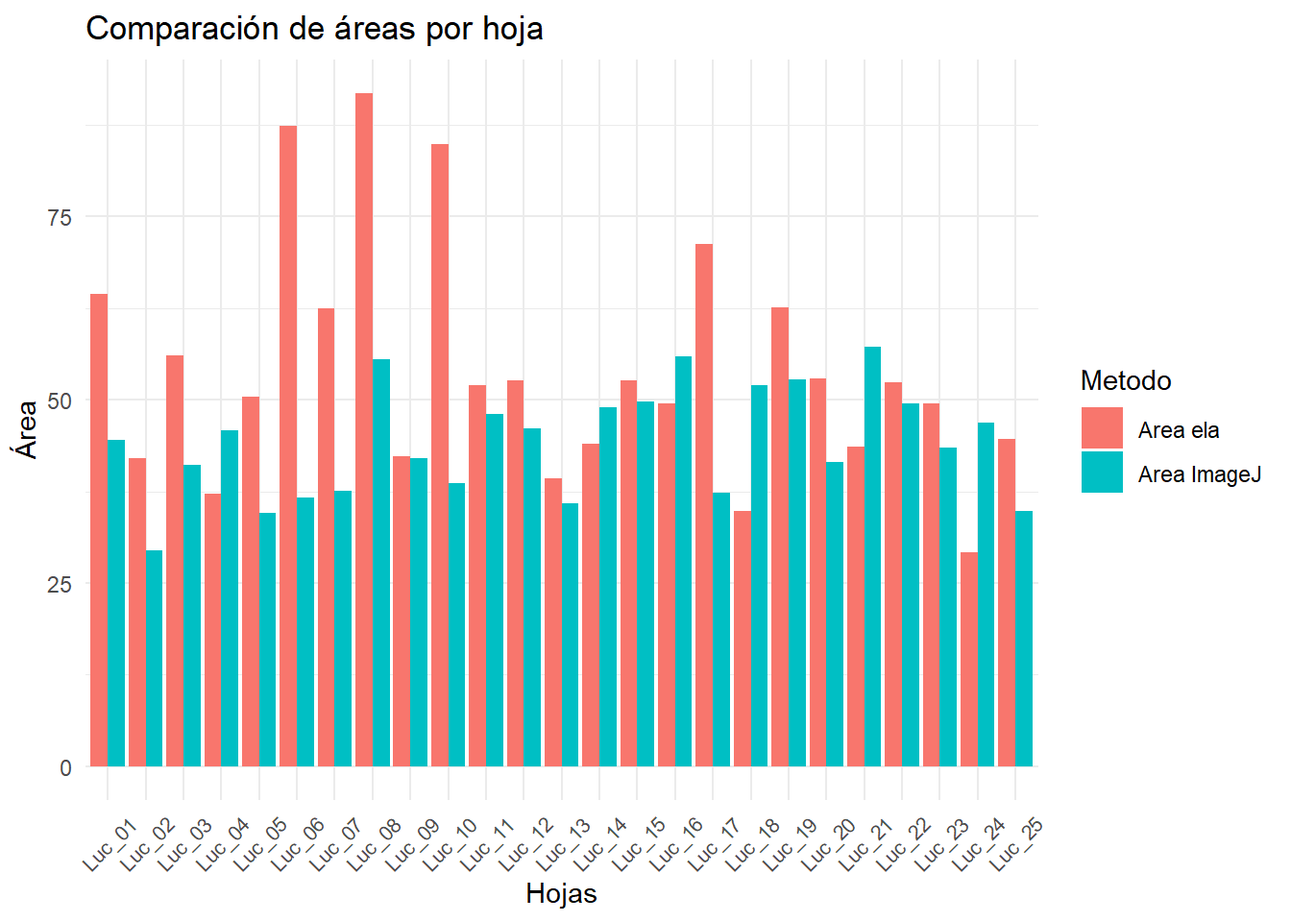
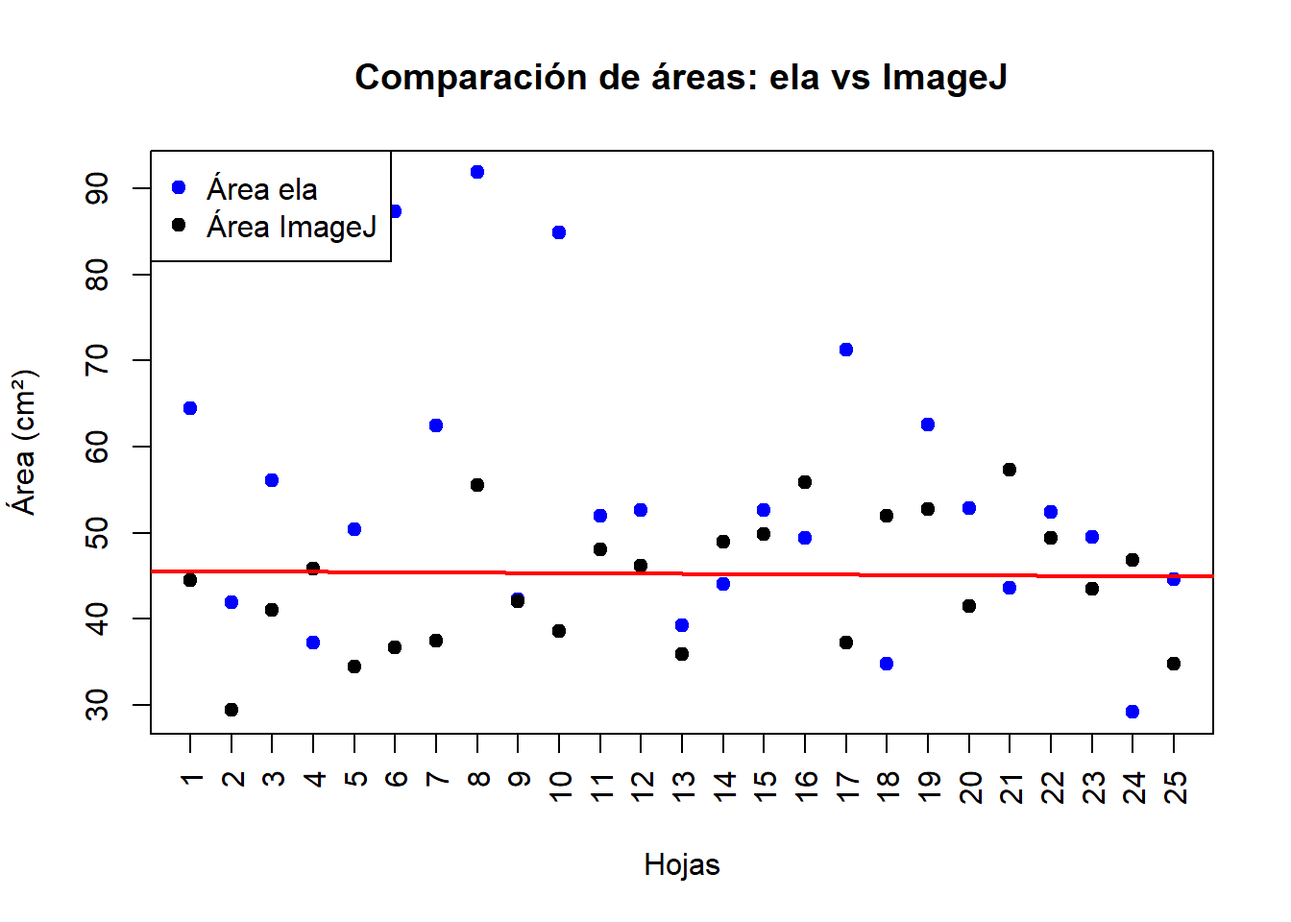
M

diff --git a/index.html b/index.html
@@ -143,18 +143,45 @@ Adjuntando el paquete: 'googlesheets4'</code></pre>
 
     request_generate, request_make</code></pre>
 </div>
+<div class="sourceCode cell-code" id="cb6"><pre class="sourceCode r code-with-copy"><code class="sourceCode r"><span id="cb6-1"><a href="#cb6-1" aria-hidden="true" tabindex="-1"></a><span class="fu">library</span>(dplyr)</span></code><button title="Copy to Clipboard" class="code-copy-button"><i class="bi"></i></button></pre></div>
+<div class="cell-output cell-output-stderr">
+<pre><code>
+Adjuntando el paquete: 'dplyr'</code></pre>
 </div>
-</section>
-<section id="fenotipado-en-imagej.exe" class="level1">
-<h1>Fenotipado en ImageJ.exe</h1>
+<div class="cell-output cell-output-stderr">
+<pre><code>The following objects are masked from 'package:stats':
+
+    filter, lag</code></pre>
+</div>
+<div class="cell-output cell-output-stderr">
+<pre><code>The following objects are masked from 'package:base':
+
+    intersect, setdiff, setequal, union</code></pre>
+</div>
+<div class="sourceCode cell-code" id="cb10"><pre class="sourceCode r code-with-copy"><code class="sourceCode r"><span id="cb10-1"><a href="#cb10-1" aria-hidden="true" tabindex="-1"></a><span class="fu">library</span>(lme4)</span></code><button title="Copy to Clipboard" class="code-copy-button"><i class="bi"></i></button></pre></div>
+<div class="cell-output cell-output-stderr">
+<pre><code>Cargando paquete requerido: Matrix</code></pre>
+</div>
+<div class="cell-output cell-output-stderr">
+<pre><code>
+Adjuntando el paquete: 'Matrix'</code></pre>
+</div>
+<div class="cell-output cell-output-stderr">
+<pre><code>The following objects are masked from 'package:tidyr':
+
+    expand, pack, unpack</code></pre>
+</div>
+</div>
+<section id="fenotipado-en-imagej.exe" class="level2">
+<h2 class="anchored" data-anchor-id="fenotipado-en-imagej.exe">Fenotipado en ImageJ.exe</h2>
 <div class="cell">
-<div class="sourceCode cell-code" id="cb6"><pre class="sourceCode r code-with-copy"><code class="sourceCode r"><span id="cb6-1"><a href="#cb6-1" aria-hidden="true" tabindex="-1"></a>url <span class="ot">&lt;-</span> <span class="st">"https://docs.google.com/spreadsheets/d/1XddbJV_9Ru2_ns5UJX_xJ7c7wQ9g_u5Jge-AJNpdVdQ/edit?pli=1&amp;gid=0#gid=0"</span></span>
-<span id="cb6-2"><a href="#cb6-2" aria-hidden="true" tabindex="-1"></a></span>
-<span id="cb6-3"><a href="#cb6-3" aria-hidden="true" tabindex="-1"></a>gs <span class="ot">&lt;-</span> url <span class="sc">%&gt;%</span></span>
-<span id="cb6-4"><a href="#cb6-4" aria-hidden="true" tabindex="-1"></a>  <span class="fu">as_sheets_id</span>()</span>
-<span id="cb6-5"><a href="#cb6-5" aria-hidden="true" tabindex="-1"></a></span>
-<span id="cb6-6"><a href="#cb6-6" aria-hidden="true" tabindex="-1"></a>ImageJ <span class="ot">&lt;-</span> gs <span class="sc">%&gt;%</span></span>
-<span id="cb6-7"><a href="#cb6-7" aria-hidden="true" tabindex="-1"></a>  <span class="fu">range_read</span>(<span class="at">sheet =</span> <span class="st">"ImageJ"</span>)</span></code><button title="Copy to Clipboard" class="code-copy-button"><i class="bi"></i></button></pre></div>
+<div class="sourceCode cell-code" id="cb14"><pre class="sourceCode r code-with-copy"><code class="sourceCode r"><span id="cb14-1"><a href="#cb14-1" aria-hidden="true" tabindex="-1"></a>url <span class="ot">&lt;-</span> <span class="st">"https://docs.google.com/spreadsheets/d/1XddbJV_9Ru2_ns5UJX_xJ7c7wQ9g_u5Jge-AJNpdVdQ/edit?pli=1&amp;gid=0#gid=0"</span></span>
+<span id="cb14-2"><a href="#cb14-2" aria-hidden="true" tabindex="-1"></a></span>
+<span id="cb14-3"><a href="#cb14-3" aria-hidden="true" tabindex="-1"></a>gs <span class="ot">&lt;-</span> url <span class="sc">%&gt;%</span></span>
+<span id="cb14-4"><a href="#cb14-4" aria-hidden="true" tabindex="-1"></a>  <span class="fu">as_sheets_id</span>()</span>
+<span id="cb14-5"><a href="#cb14-5" aria-hidden="true" tabindex="-1"></a></span>
+<span id="cb14-6"><a href="#cb14-6" aria-hidden="true" tabindex="-1"></a>ImageJ <span class="ot">&lt;-</span> gs <span class="sc">%&gt;%</span></span>
+<span id="cb14-7"><a href="#cb14-7" aria-hidden="true" tabindex="-1"></a>  <span class="fu">range_read</span>(<span class="at">sheet =</span> <span class="st">"ImageJ"</span>)</span></code><button title="Copy to Clipboard" class="code-copy-button"><i class="bi"></i></button></pre></div>
 <div class="cell-output cell-output-stderr">
 <pre><code>ℹ Suitable tokens found in the cache, associated with these emails:</code></pre>
 </div>
@@ -185,77 +212,116 @@ Adjuntando el paquete: 'googlesheets4'</code></pre>
   '7574265122@untrm.edu.pe'.</code></pre>
 </div>
 <div class="cell-output cell-output-stderr">
+<pre><code>Auto-refreshing stale OAuth token.</code></pre>
+</div>
+<div class="cell-output cell-output-stderr">
 <pre><code>✔ Reading from "medicion_manual_G5".</code></pre>
 </div>
 <div class="cell-output cell-output-stderr">
 <pre><code>✔ Range ''ImageJ''.</code></pre>
 </div>
-<div class="sourceCode cell-code" id="cb18"><pre class="sourceCode r code-with-copy"><code class="sourceCode r"><span id="cb18-1"><a href="#cb18-1" aria-hidden="true" tabindex="-1"></a><span class="fu">View</span>(ImageJ)</span></code><button title="Copy to Clipboard" class="code-copy-button"><i class="bi"></i></button></pre></div>
+<div class="sourceCode cell-code" id="cb27"><pre class="sourceCode r code-with-copy"><code class="sourceCode r"><span id="cb27-1"><a href="#cb27-1" aria-hidden="true" tabindex="-1"></a><span class="fu">View</span>(ImageJ)</span></code><button title="Copy to Clipboard" class="code-copy-button"><i class="bi"></i></button></pre></div>
 </div>
-<p>#Fenotipado en Ela.exe</p>
+</section>
+<section id="fenotipado-en-ela.exe" class="level2">
+<h2 class="anchored" data-anchor-id="fenotipado-en-ela.exe">Fenotipado en Ela.exe</h2>
 <div class="cell">
-<div class="sourceCode cell-code" id="cb19"><pre class="sourceCode r code-with-copy"><code class="sourceCode r"><span id="cb19-1"><a href="#cb19-1" aria-hidden="true" tabindex="-1"></a>url <span class="ot">&lt;-</span> <span class="st">"https://docs.google.com/spreadsheets/d/1XddbJV_9Ru2_ns5UJX_xJ7c7wQ9g_u5Jge-AJNpdVdQ/edit?pli=1&amp;gid=0#gid=0"</span></span>
-<span id="cb19-2"><a href="#cb19-2" aria-hidden="true" tabindex="-1"></a></span>
-<span id="cb19-3"><a href="#cb19-3" aria-hidden="true" tabindex="-1"></a>gs <span class="ot">&lt;-</span> url <span class="sc">%&gt;%</span></span>
-<span id="cb19-4"><a href="#cb19-4" aria-hidden="true" tabindex="-1"></a>  <span class="fu">as_sheets_id</span>()</span>
-<span id="cb19-5"><a href="#cb19-5" aria-hidden="true" tabindex="-1"></a></span>
-<span id="cb19-6"><a href="#cb19-6" aria-hidden="true" tabindex="-1"></a>ela <span class="ot">&lt;-</span> gs <span class="sc">%&gt;%</span></span>
-<span id="cb19-7"><a href="#cb19-7" aria-hidden="true" tabindex="-1"></a>  <span class="fu">range_read</span>(<span class="at">sheet =</span> <span class="st">"ela"</span>)</span></code><button title="Copy to Clipboard" class="code-copy-button"><i class="bi"></i></button></pre></div>
+<div class="sourceCode cell-code" id="cb28"><pre class="sourceCode r code-with-copy"><code class="sourceCode r"><span id="cb28-1"><a href="#cb28-1" aria-hidden="true" tabindex="-1"></a>url <span class="ot">&lt;-</span> <span class="st">"https://docs.google.com/spreadsheets/d/1XddbJV_9Ru2_ns5UJX_xJ7c7wQ9g_u5Jge-AJNpdVdQ/edit?pli=1&amp;gid=0#gid=0"</span></span>
+<span id="cb28-2"><a href="#cb28-2" aria-hidden="true" tabindex="-1"></a></span>
+<span id="cb28-3"><a href="#cb28-3" aria-hidden="true" tabindex="-1"></a>gs <span class="ot">&lt;-</span> url <span class="sc">%&gt;%</span></span>
+<span id="cb28-4"><a href="#cb28-4" aria-hidden="true" tabindex="-1"></a>  <span class="fu">as_sheets_id</span>()</span>
+<span id="cb28-5"><a href="#cb28-5" aria-hidden="true" tabindex="-1"></a></span>
+<span id="cb28-6"><a href="#cb28-6" aria-hidden="true" tabindex="-1"></a>ela <span class="ot">&lt;-</span> gs <span class="sc">%&gt;%</span></span>
+<span id="cb28-7"><a href="#cb28-7" aria-hidden="true" tabindex="-1"></a>  <span class="fu">range_read</span>(<span class="at">sheet =</span> <span class="st">"ela"</span>)</span></code><button title="Copy to Clipboard" class="code-copy-button"><i class="bi"></i></button></pre></div>
 <div class="cell-output cell-output-stderr">
 <pre><code>✔ Reading from "medicion_manual_G5".</code></pre>
 </div>
 <div class="cell-output cell-output-stderr">
 <pre><code>✔ Range ''ela''.</code></pre>
 </div>
-<div class="sourceCode cell-code" id="cb22"><pre class="sourceCode r code-with-copy"><code class="sourceCode r"><span id="cb22-1"><a href="#cb22-1" aria-hidden="true" tabindex="-1"></a><span class="fu">View</span>(ela)</span></code><button title="Copy to Clipboard" class="code-copy-button"><i class="bi"></i></button></pre></div>
+<div class="sourceCode cell-code" id="cb31"><pre class="sourceCode r code-with-copy"><code class="sourceCode r"><span id="cb31-1"><a href="#cb31-1" aria-hidden="true" tabindex="-1"></a><span class="fu">View</span>(ela)</span></code><button title="Copy to Clipboard" class="code-copy-button"><i class="bi"></i></button></pre></div>
 </div>
-<p>#Comparación de áreas obtenidad en las dos aplicaciones</p>
+<section id="comparación-de-áreas-obtenidad-en-las-dos-aplicaciones" class="level3">
+<h3 class="anchored" data-anchor-id="comparación-de-áreas-obtenidad-en-las-dos-aplicaciones">Comparación de áreas obtenidad en las dos aplicaciones</h3>
 <div class="cell">
-<div class="sourceCode cell-code" id="cb23"><pre class="sourceCode r code-with-copy"><code class="sourceCode r"><span id="cb23-1"><a href="#cb23-1" aria-hidden="true" tabindex="-1"></a>url <span class="ot">&lt;-</span> <span class="st">"https://docs.google.com/spreadsheets/d/1XddbJV_9Ru2_ns5UJX_xJ7c7wQ9g_u5Jge-AJNpdVdQ/edit?pli=1&amp;gid=0#gid=0"</span></span>
-<span id="cb23-2"><a href="#cb23-2" aria-hidden="true" tabindex="-1"></a></span>
-<span id="cb23-3"><a href="#cb23-3" aria-hidden="true" tabindex="-1"></a>gs <span class="ot">&lt;-</span> url <span class="sc">%&gt;%</span></span>
-<span id="cb23-4"><a href="#cb23-4" aria-hidden="true" tabindex="-1"></a>  <span class="fu">as_sheets_id</span>()</span>
-<span id="cb23-5"><a href="#cb23-5" aria-hidden="true" tabindex="-1"></a></span>
-<span id="cb23-6"><a href="#cb23-6" aria-hidden="true" tabindex="-1"></a>todo <span class="ot">&lt;-</span> gs <span class="sc">%&gt;%</span></span>
-<span id="cb23-7"><a href="#cb23-7" aria-hidden="true" tabindex="-1"></a>  <span class="fu">range_read</span>(<span class="at">sheet =</span> <span class="st">"todo"</span>)</span></code><button title="Copy to Clipboard" class="code-copy-button"><i class="bi"></i></button></pre></div>
+<div class="sourceCode cell-code" id="cb32"><pre class="sourceCode r code-with-copy"><code class="sourceCode r"><span id="cb32-1"><a href="#cb32-1" aria-hidden="true" tabindex="-1"></a>url <span class="ot">&lt;-</span> <span class="st">"https://docs.google.com/spreadsheets/d/1XddbJV_9Ru2_ns5UJX_xJ7c7wQ9g_u5Jge-AJNpdVdQ/edit?pli=1&amp;gid=0#gid=0"</span></span>
+<span id="cb32-2"><a href="#cb32-2" aria-hidden="true" tabindex="-1"></a></span>
+<span id="cb32-3"><a href="#cb32-3" aria-hidden="true" tabindex="-1"></a>gs <span class="ot">&lt;-</span> url <span class="sc">%&gt;%</span></span>
+<span id="cb32-4"><a href="#cb32-4" aria-hidden="true" tabindex="-1"></a>  <span class="fu">as_sheets_id</span>()</span>
+<span id="cb32-5"><a href="#cb32-5" aria-hidden="true" tabindex="-1"></a></span>
+<span id="cb32-6"><a href="#cb32-6" aria-hidden="true" tabindex="-1"></a>todo <span class="ot">&lt;-</span> gs <span class="sc">%&gt;%</span></span>
+<span id="cb32-7"><a href="#cb32-7" aria-hidden="true" tabindex="-1"></a>  <span class="fu">range_read</span>(<span class="at">sheet =</span> <span class="st">"todo"</span>)</span></code><button title="Copy to Clipboard" class="code-copy-button"><i class="bi"></i></button></pre></div>
 <div class="cell-output cell-output-stderr">
 <pre><code>✔ Reading from "medicion_manual_G5".</code></pre>
 </div>
 <div class="cell-output cell-output-stderr">
 <pre><code>✔ Range ''todo''.</code></pre>
 </div>
-<div class="sourceCode cell-code" id="cb26"><pre class="sourceCode r code-with-copy"><code class="sourceCode r"><span id="cb26-1"><a href="#cb26-1" aria-hidden="true" tabindex="-1"></a><span class="fu">View</span>(todo)</span></code><button title="Copy to Clipboard" class="code-copy-button"><i class="bi"></i></button></pre></div>
+<div class="sourceCode cell-code" id="cb35"><pre class="sourceCode r code-with-copy"><code class="sourceCode r"><span id="cb35-1"><a href="#cb35-1" aria-hidden="true" tabindex="-1"></a><span class="fu">View</span>(todo)</span></code><button title="Copy to Clipboard" class="code-copy-button"><i class="bi"></i></button></pre></div>
 </div>
 </section>
-<section id="barplot-de-las-área-obtenidas." class="level1">
-<h1>Barplot de las área obtenidas.</h1>
+<section id="regresión-lineal-de-las-áreas-obtenidas" class="level3">
+<h3 class="anchored" data-anchor-id="regresión-lineal-de-las-áreas-obtenidas">Regresión lineal de las áreas obtenidas</h3>
 <div class="cell">
-<div class="sourceCode cell-code" id="cb27"><pre class="sourceCode r code-with-copy"><code class="sourceCode r"><span id="cb27-1"><a href="#cb27-1" aria-hidden="true" tabindex="-1"></a>datos <span class="ot">&lt;-</span> <span class="fu">data.frame</span>(</span>
-<span id="cb27-2"><a href="#cb27-2" aria-hidden="true" tabindex="-1"></a>  <span class="at">Hojas =</span> <span class="fu">c</span>(<span class="st">"Luc_01"</span>,<span class="st">"Luc_02"</span>,<span class="st">"Luc_03"</span>,<span class="st">"Luc_04"</span>,<span class="st">"Luc_05"</span>,<span class="st">"Luc_06"</span>,<span class="st">"Luc_07"</span>,<span class="st">"Luc_08"</span>,</span>
-<span id="cb27-3"><a href="#cb27-3" aria-hidden="true" tabindex="-1"></a>            <span class="st">"Luc_09"</span>,<span class="st">"Luc_10"</span>,<span class="st">"Luc_11"</span>,<span class="st">"Luc_12"</span>,<span class="st">"Luc_13"</span>,<span class="st">"Luc_14"</span>,<span class="st">"Luc_15"</span>,<span class="st">"Luc_16"</span>,</span>
-<span id="cb27-4"><a href="#cb27-4" aria-hidden="true" tabindex="-1"></a>            <span class="st">"Luc_17"</span>,<span class="st">"Luc_18"</span>,<span class="st">"Luc_19"</span>,<span class="st">"Luc_20"</span>,<span class="st">"Luc_21"</span>,<span class="st">"Luc_22"</span>,<span class="st">"Luc_23"</span>,<span class="st">"Luc_24"</span>,<span class="st">"Luc_25"</span>),</span>
-<span id="cb27-5"><a href="#cb27-5" aria-hidden="true" tabindex="-1"></a>  <span class="at">Area_ImageJ =</span> <span class="fu">c</span>(<span class="fl">44.48</span>,<span class="fl">29.42</span>,<span class="fl">41.09</span>,<span class="fl">45.81</span>,<span class="fl">34.51</span>,<span class="fl">36.65</span>,<span class="fl">37.52</span>,<span class="fl">55.53</span>,</span>
-<span id="cb27-6"><a href="#cb27-6" aria-hidden="true" tabindex="-1"></a>                  <span class="fl">42.04</span>,<span class="fl">38.61</span>,<span class="fl">48.05</span>,<span class="fl">46.15</span>,<span class="fl">35.93</span>,<span class="dv">49</span>,<span class="fl">49.81</span>,<span class="fl">55.89</span>,</span>
-<span id="cb27-7"><a href="#cb27-7" aria-hidden="true" tabindex="-1"></a>                  <span class="fl">37.29</span>,<span class="fl">51.98</span>,<span class="fl">52.74</span>,<span class="fl">41.52</span>,<span class="fl">57.27</span>,<span class="fl">49.46</span>,<span class="fl">43.48</span>,<span class="fl">46.9</span>,<span class="fl">34.79</span>),</span>
-<span id="cb27-8"><a href="#cb27-8" aria-hidden="true" tabindex="-1"></a>  <span class="at">Area_ela =</span> <span class="fu">c</span>(<span class="fl">64.46</span>,<span class="fl">41.99</span>,<span class="fl">56.1</span>,<span class="fl">37.24</span>,<span class="fl">50.46</span>,<span class="fl">87.34</span>,<span class="fl">62.46</span>,<span class="fl">91.84</span>,</span>
-<span id="cb27-9"><a href="#cb27-9" aria-hidden="true" tabindex="-1"></a>               <span class="fl">42.28</span>,<span class="fl">84.86</span>,<span class="fl">51.95</span>,<span class="fl">52.61</span>,<span class="fl">39.24</span>,<span class="fl">44.01</span>,<span class="fl">52.64</span>,<span class="fl">49.43</span>,</span>
-<span id="cb27-10"><a href="#cb27-10" aria-hidden="true" tabindex="-1"></a>               <span class="fl">71.26</span>,<span class="fl">34.79</span>,<span class="fl">62.53</span>,<span class="fl">52.91</span>,<span class="fl">43.65</span>,<span class="fl">52.42</span>,<span class="fl">49.48</span>,<span class="fl">29.21</span>,<span class="fl">44.62</span>)</span>
-<span id="cb27-11"><a href="#cb27-11" aria-hidden="true" tabindex="-1"></a>)</span>
-<span id="cb27-12"><a href="#cb27-12" aria-hidden="true" tabindex="-1"></a></span>
-<span id="cb27-13"><a href="#cb27-13" aria-hidden="true" tabindex="-1"></a>todo_long <span class="ot">&lt;-</span> <span class="fu">pivot_longer</span>(</span>
-<span id="cb27-14"><a href="#cb27-14" aria-hidden="true" tabindex="-1"></a>  todo,</span>
-<span id="cb27-15"><a href="#cb27-15" aria-hidden="true" tabindex="-1"></a>  <span class="at">cols =</span> <span class="fu">c</span>(<span class="st">"Area ImageJ"</span>, <span class="st">"Area ela"</span>),</span>
-<span id="cb27-16"><a href="#cb27-16" aria-hidden="true" tabindex="-1"></a>  <span class="at">names_to =</span> <span class="st">"Metodo"</span>,</span>
-<span id="cb27-17"><a href="#cb27-17" aria-hidden="true" tabindex="-1"></a>  <span class="at">values_to =</span> <span class="st">"Area"</span></span>
-<span id="cb27-18"><a href="#cb27-18" aria-hidden="true" tabindex="-1"></a>)</span>
-<span id="cb27-19"><a href="#cb27-19" aria-hidden="true" tabindex="-1"></a></span>
-<span id="cb27-20"><a href="#cb27-20" aria-hidden="true" tabindex="-1"></a><span class="fu">ggplot</span>(todo_long, <span class="fu">aes</span>(<span class="at">x =</span> Hojas, <span class="at">y =</span> Area, <span class="at">fill =</span> Metodo)) <span class="sc">+</span></span>
-<span id="cb27-21"><a href="#cb27-21" aria-hidden="true" tabindex="-1"></a>  <span class="fu">geom_bar</span>(<span class="at">stat =</span> <span class="st">"identity"</span>, <span class="at">position =</span> <span class="fu">position_dodge</span>()) <span class="sc">+</span></span>
-<span id="cb27-22"><a href="#cb27-22" aria-hidden="true" tabindex="-1"></a>  <span class="fu">theme_minimal</span>() <span class="sc">+</span></span>
-<span id="cb27-23"><a href="#cb27-23" aria-hidden="true" tabindex="-1"></a>  <span class="fu">labs</span>(<span class="at">title =</span> <span class="st">"Comparación de áreas por hoja"</span>,</span>
-<span id="cb27-24"><a href="#cb27-24" aria-hidden="true" tabindex="-1"></a>       <span class="at">x =</span> <span class="st">"Hojas"</span>,</span>
-<span id="cb27-25"><a href="#cb27-25" aria-hidden="true" tabindex="-1"></a>       <span class="at">y =</span> <span class="st">"Área"</span>) <span class="sc">+</span></span>
-<span id="cb27-26"><a href="#cb27-26" aria-hidden="true" tabindex="-1"></a>  <span class="fu">theme</span>(<span class="at">axis.text.x =</span> <span class="fu">element_text</span>(<span class="at">angle =</span> <span class="dv">45</span>, <span class="at">vjust =</span> <span class="fl">0.5</span>, <span class="at">size =</span> <span class="dv">8</span>))</span></code><button title="Copy to Clipboard" class="code-copy-button"><i class="bi"></i></button></pre></div>
+<div class="sourceCode cell-code" id="cb36"><pre class="sourceCode r code-with-copy"><code class="sourceCode r"><span id="cb36-1"><a href="#cb36-1" aria-hidden="true" tabindex="-1"></a>modelo <span class="ot">&lt;-</span> <span class="fu">lm</span>(<span class="st">`</span><span class="at">Area ImageJ</span><span class="st">`</span> <span class="sc">~</span> <span class="st">`</span><span class="at">Area ela</span><span class="st">`</span>, <span class="at">data =</span> todo)</span>
+<span id="cb36-2"><a href="#cb36-2" aria-hidden="true" tabindex="-1"></a><span class="fu">summary</span>(modelo)</span></code><button title="Copy to Clipboard" class="code-copy-button"><i class="bi"></i></button></pre></div>
+<div class="cell-output cell-output-stdout">
+<pre><code>
+Call:
+lm(formula = `Area ImageJ` ~ `Area ela`, data = todo)
+
+Residuals:
+     Min       1Q   Median       3Q      Max 
+-15.1179  -6.5043   0.5059   5.1838  12.7737 
+
+Coefficients:
+            Estimate Std. Error t value Pr(&gt;|t|)    
+(Intercept) 45.59140    5.47804   8.323 2.16e-08 ***
+`Area ela`  -0.02509    0.09742  -0.258    0.799    
+---
+Signif. codes:  0 '***' 0.001 '**' 0.01 '*' 0.05 '.' 0.1 ' ' 1
+
+Residual standard error: 7.656 on 23 degrees of freedom
+Multiple R-squared:  0.002876,  Adjusted R-squared:  -0.04048 
+F-statistic: 0.06633 on 1 and 23 DF,  p-value: 0.799</code></pre>
+</div>
+<div class="sourceCode cell-code" id="cb38"><pre class="sourceCode r code-with-copy"><code class="sourceCode r"><span id="cb38-1"><a href="#cb38-1" aria-hidden="true" tabindex="-1"></a>muestras <span class="ot">&lt;-</span> todo<span class="sc">$</span>nombre</span></code><button title="Copy to Clipboard" class="code-copy-button"><i class="bi"></i></button></pre></div>
+<div class="cell-output cell-output-stderr">
+<pre><code>Warning: Unknown or uninitialised column: `nombre`.</code></pre>
+</div>
+<div class="sourceCode cell-code" id="cb40"><pre class="sourceCode r code-with-copy"><code class="sourceCode r"><span id="cb40-1"><a href="#cb40-1" aria-hidden="true" tabindex="-1"></a><span class="fu">plot</span>(</span>
+<span id="cb40-2"><a href="#cb40-2" aria-hidden="true" tabindex="-1"></a>  <span class="at">x =</span> <span class="dv">1</span><span class="sc">:</span><span class="fu">nrow</span>(todo),</span>
+<span id="cb40-3"><a href="#cb40-3" aria-hidden="true" tabindex="-1"></a>  <span class="at">y =</span> todo<span class="sc">$</span><span class="st">`</span><span class="at">Area ela</span><span class="st">`</span>,</span>
+<span id="cb40-4"><a href="#cb40-4" aria-hidden="true" tabindex="-1"></a>  <span class="at">pch =</span> <span class="dv">19</span>,          </span>
+<span id="cb40-5"><a href="#cb40-5" aria-hidden="true" tabindex="-1"></a>  <span class="at">col =</span> <span class="st">"blue"</span>,</span>
+<span id="cb40-6"><a href="#cb40-6" aria-hidden="true" tabindex="-1"></a>  <span class="at">xlab =</span> <span class="st">"Hojas"</span>,</span>
+<span id="cb40-7"><a href="#cb40-7" aria-hidden="true" tabindex="-1"></a>  <span class="at">ylab =</span> <span class="st">"Área (cm²)"</span>,</span>
+<span id="cb40-8"><a href="#cb40-8" aria-hidden="true" tabindex="-1"></a>  <span class="at">main =</span> <span class="st">"Comparación de áreas: ela vs ImageJ"</span>,</span>
+<span id="cb40-9"><a href="#cb40-9" aria-hidden="true" tabindex="-1"></a>  <span class="at">xaxt =</span> <span class="st">"n"</span>       </span>
+<span id="cb40-10"><a href="#cb40-10" aria-hidden="true" tabindex="-1"></a>)</span>
+<span id="cb40-11"><a href="#cb40-11" aria-hidden="true" tabindex="-1"></a></span>
+<span id="cb40-12"><a href="#cb40-12" aria-hidden="true" tabindex="-1"></a><span class="fu">points</span>(</span>
+<span id="cb40-13"><a href="#cb40-13" aria-hidden="true" tabindex="-1"></a>  <span class="at">x =</span> <span class="dv">1</span><span class="sc">:</span><span class="fu">nrow</span>(todo),</span>
+<span id="cb40-14"><a href="#cb40-14" aria-hidden="true" tabindex="-1"></a>  <span class="at">y =</span> todo<span class="sc">$</span><span class="st">`</span><span class="at">Area ImageJ</span><span class="st">`</span>,</span>
+<span id="cb40-15"><a href="#cb40-15" aria-hidden="true" tabindex="-1"></a>  <span class="at">pch =</span> <span class="dv">19</span>,</span>
+<span id="cb40-16"><a href="#cb40-16" aria-hidden="true" tabindex="-1"></a>  <span class="at">col =</span> <span class="st">"black"</span></span>
+<span id="cb40-17"><a href="#cb40-17" aria-hidden="true" tabindex="-1"></a>)</span>
+<span id="cb40-18"><a href="#cb40-18" aria-hidden="true" tabindex="-1"></a></span>
+<span id="cb40-19"><a href="#cb40-19" aria-hidden="true" tabindex="-1"></a><span class="fu">axis</span>(</span>
+<span id="cb40-20"><a href="#cb40-20" aria-hidden="true" tabindex="-1"></a>  <span class="at">side =</span> <span class="dv">1</span>,</span>
+<span id="cb40-21"><a href="#cb40-21" aria-hidden="true" tabindex="-1"></a>  <span class="at">at =</span> <span class="dv">1</span><span class="sc">:</span><span class="fu">nrow</span>(todo),</span>
+<span id="cb40-22"><a href="#cb40-22" aria-hidden="true" tabindex="-1"></a>  <span class="at">labels =</span> muestras,</span>
+<span id="cb40-23"><a href="#cb40-23" aria-hidden="true" tabindex="-1"></a>  <span class="at">las =</span> <span class="dv">2</span>        </span>
+<span id="cb40-24"><a href="#cb40-24" aria-hidden="true" tabindex="-1"></a>)</span>
+<span id="cb40-25"><a href="#cb40-25" aria-hidden="true" tabindex="-1"></a></span>
+<span id="cb40-26"><a href="#cb40-26" aria-hidden="true" tabindex="-1"></a><span class="fu">legend</span>(</span>
+<span id="cb40-27"><a href="#cb40-27" aria-hidden="true" tabindex="-1"></a>  <span class="st">"topleft"</span>,</span>
+<span id="cb40-28"><a href="#cb40-28" aria-hidden="true" tabindex="-1"></a>  <span class="at">legend =</span> <span class="fu">c</span>(<span class="st">"Área ela"</span>, <span class="st">"Área ImageJ"</span>),</span>
+<span id="cb40-29"><a href="#cb40-29" aria-hidden="true" tabindex="-1"></a>  <span class="at">col =</span> <span class="fu">c</span>(<span class="st">"blue"</span>, <span class="st">"black"</span>),</span>
+<span id="cb40-30"><a href="#cb40-30" aria-hidden="true" tabindex="-1"></a>  <span class="at">pch =</span> <span class="dv">19</span></span>
+<span id="cb40-31"><a href="#cb40-31" aria-hidden="true" tabindex="-1"></a>)</span>
+<span id="cb40-32"><a href="#cb40-32" aria-hidden="true" tabindex="-1"></a></span>
+<span id="cb40-33"><a href="#cb40-33" aria-hidden="true" tabindex="-1"></a><span class="fu">abline</span>(modelo, <span class="at">col =</span> <span class="st">"red"</span>, <span class="at">lwd =</span> <span class="dv">2</span>)</span></code><button title="Copy to Clipboard" class="code-copy-button"><i class="bi"></i></button></pre></div>
 <div class="cell-output-display">
 <div>
 <figure class="figure">
@@ -263,34 +329,62 @@ Adjuntando el paquete: 'googlesheets4'</code></pre>
 </figure>
 </div>
 </div>
+<div class="sourceCode cell-code" id="cb41"><pre class="sourceCode r code-with-copy"><code class="sourceCode r"><span id="cb41-1"><a href="#cb41-1" aria-hidden="true" tabindex="-1"></a><span class="fu">coef</span>(modelo)</span></code><button title="Copy to Clipboard" class="code-copy-button"><i class="bi"></i></button></pre></div>
+<div class="cell-output cell-output-stdout">
+<pre><code>(Intercept)  `Area ela` 
+45.59140356 -0.02508934 </code></pre>
 </div>
+<div class="sourceCode cell-code" id="cb43"><pre class="sourceCode r code-with-copy"><code class="sourceCode r"><span id="cb43-1"><a href="#cb43-1" aria-hidden="true" tabindex="-1"></a><span class="fu">summary</span>(modelo)<span class="sc">$</span>r.squared</span></code><button title="Copy to Clipboard" class="code-copy-button"><i class="bi"></i></button></pre></div>
+<div class="cell-output cell-output-stdout">
+<pre><code>[1] 0.002875577</code></pre>
+</div>
+</div>
+<p>Los resultados muestran que las mediciones de ELA son más variables y, en varios casos, más altas que las obtenidas con ImageJ, que se mantiene más estable. La regresión lineal indica una relación prácticamente inexistente entre ambos métodos, reflejada en una pendiente cercana a cero. El bajo R² confirma que las mediciones de ELA no predicen adecuadamente las de ImageJ. En conjunto, ambos métodos no muestran concordancia fuerte y producen patrones de medición distintos.</p>
+</section>
+</section>
 </section>
 <section id="entrenamineto-de-ia" class="level1">
 <h1>Entrenamineto de IA</h1>
-<p>El proyecto PhenoCrops comenzó con la recopilación de imágenes de lúcuma y su organización en un conjunto de datos estructurado en carpetas de entrenamiento, validación y prueba. Posteriormente se generaron las anotaciones utilizando labelstudio en su versión de segmentación, lo que permitió obtener máscaras poligonales almacenadas en archivos de texto bajo el formato estándar de YOLO (formato exportado). Con estas anotaciones se configuró un archivo YAML que definió las clases, rutas y estructura del dataset. El entrenamiento del modelo se llevó a cabo en la terminal de Windows (CMD), utilizando como base el modelo YOLOv8n-seg por su balance entre velocidad y eficiencia. Tras varias épocas de entrenamiento se obtuvo el modelo final best.pt, el cual se usó para generar predicciones y obtener nuevas máscaras segmentadas, que luego fueron descargadas al equipo local.</p>
-<p><img src="images/clipboard-2758917329.jpeg" class="img-fluid" width="682"></p>
-<p><img src="images/clipboard-3833046870.jpeg" class="img-fluid"></p>
+<section id="desarrollo-del-proceso" class="level2">
+<h2 class="anchored" data-anchor-id="desarrollo-del-proceso">Desarrollo del proceso</h2>
+<p>Las imágenes fueron exportadas de labelstudio, de la práctica anterior. ###Preparación de datos Primero se cargaron las imágenes y archivos de anotación generados en formato YOLO. Luego, el scrip los clasificó en “data/images” y “data/labels”.</p>
+<section id="aumentación-masiva-del-dataset-20x" class="level3">
+<h3 class="anchored" data-anchor-id="aumentación-masiva-del-dataset-20x">Aumentación masiva del dataset (20x)</h3>
+<p>Esto se hizo para mejorar el rendimiento del modelo, se generó 20 nuevas versionas por cada imagen original. Dichas transformaciones incluyen rotación aleatoria hasta 40°, ajuste del brillo y contraste, escalado proporcional. Y los resultados los almacena en “argumented/images” y “argumented/labels”.</p>
+<p>###Conversión de anotaciones YOLO a COCO</p>
+<p>Como para el entrenamiento se empleó Mask R-CNN, la mejor opción fue hacer con Detectron2 y para ello se requierían los archivos en formato COCO Instance Segmentation. El scrip procesó cada archivo YOLO aumentado y al final se almacenó en “dataset_coco.json”, que contiene las entregas generadas para el entrenamiento y además es compatible con Detectron2.</p>
 </section>
-<section id="resultado-de-entrenamiento" class="level1">
-<h1>Resultado de entrenamiento</h1>
-<p>C:_U3_G5de IA</p>
-<p><img src="images/clipboard-3283872325.jpeg" class="img-fluid"></p>
-<p>C:_U3_G5</p>
-<p><img src="images/clipboard-2758917329.jpeg" class="img-fluid"><img src="images/clipboard-3833046870.jpeg" class="img-fluid"></p>
-<p><img src="images/clipboard-1690166848.png" class="img-fluid"></p>
-<p><img src="images/clipboard-2256107356.jpeg" class="img-fluid" width="262"></p>
-<p>Clase reconocida “peciolo”, pero lo ha reconocido en la región equivocada, lo ha hecho en la región que es de la clase “Hoja”.</p>
-<p>Este error se le atribuye a que no se usó la suficiente cantidad de imágenes o también de que al descargar el formato los archivos se hubieran dañado.</p>
-<section id="predicciones-obtenidas-del-entrenamiento" class="level2">
-<h2 class="anchored" data-anchor-id="predicciones-obtenidas-del-entrenamiento">Predicciones obtenidas del entrenamiento</h2>
-<p><img src="images/clipboard-2424459219.png" class="img-fluid"></p>
+<section id="correción-de-rutas-y-etiquetas" class="level3">
+<h3 class="anchored" data-anchor-id="correción-de-rutas-y-etiquetas">Correción de rutas y etiquetas</h3>
+<p>Como Detectron2 necesita de rutas específicas, se extrajo el nombre original del archivo y se reemplazó cualquier ruta por “data/images/”nombre”.jpg”, y esto reeescribe toda la sección de imágenes en el JSON.</p>
+</section>
+<section id="entrenamiento-del-modelo" class="level3">
+<h3 class="anchored" data-anchor-id="entrenamiento-del-modelo">Entrenamiento del modelo</h3>
+<p>Se usó Mask R-CNN con backbone ResNet-50 FPN, un modelo de segmentación robusto y estándar. Aquí se configuró las clases (Hoja y Escala), Iteraciones de entrenamiento (3000), Bath size (2 imágenes por iteración, adaptado para GPU de Colab), Learning rat (0.00025), Checkpoints (cada 500 iteraciones), Dataset (“leaf_train”). Al final dió un archivo llamado “model_final.pth” que se usó para la interencia y la aplicaicón iinteractiva.</p>
+</section>
+<section id="inferencia-sobre-imágenes-nuevas" class="level3">
+<h3 class="anchored" data-anchor-id="inferencia-sobre-imágenes-nuevas">Inferencia sobre imágenes nuevas</h3>
+<p>Se carga el modelo entrenado “model_final.pth”, se selecciona una imagen nueva, Detectron2 realzia la segmentación de la hoja, segmentación del objeto de referencia (“Escala”) y genera un dibujo visual de máscaras.</p>
+</section>
+<section id="desarrollo-de-la-aplicación-interactiva-gradio" class="level3">
+<h3 class="anchored" data-anchor-id="desarrollo-de-la-aplicación-interactiva-gradio">Desarrollo de la aplicación interactiva (Gradio)</h3>
+<p>Aquí se construye una interfaz completa en Gradio diseñada para permitir mediciones reales en fotografías de hojas usando una escala física. La funcionalidad de la aplicación: - Detección automática: se carga una imagen y la app detecta la hoja, la escala y muestra índices y áreas. - Medición manual mediante clics: esto se incluyó para el caso de imágenes nuevas, que tengan una escala diferente a las uasadas en el entrenamiento (Se usó una regla). - Visualización final: Se genera un reporte con todas las medidas calculadas, hoja segmentada y sus límites.</p>
+<p>El resultado final es el área en pixleles y cm², largo y ancho en pixeles y cm, perímetro en píxeles y cm, centímetro por píxeles calculados, información del objeto de referencia (escala detectada).</p>
+</section>
 </section>
 </section>
 <section id="anexos" class="level1">
 <h1>Anexos</h1>
 <ul>
 <li><p>Imágenes usadas: https://drive.google.com/drive/folders/1pv3_1awIPfNOG9ZR2jCWH8xkxYaGVREK</p></li>
-<li><p>Imágenes de ela.exe https://drive.google.com/drive/folders/1SRlYCb1ZVEdITpXi_CzIaZVbdB3QEvHP?usp=sharing</p></li>
+<li><p>Imágenes de ela.exe: https://drive.google.com/drive/folders/1SRlYCb1ZVEdITpXi_CzIaZVbdB3QEvHP?usp=sharing</p></li>
+<li><p>Enlace de Colab con el código: https://colab.research.google.com/drive/15mq6eNmU5vNbp9s4cm0jY-aoPjVtxKOf?usp=sharing</p></li>
+<li><p>Se adjunta el la carpeta comprimida de la interfaz creada.</p></li>
+<li><p>Para que la interfaz tenga exito es necesario ejecutar desde Windows PowerShell como administrador el siguiente código:<br>
+cd C:_Analyzer</p>
+<p>venv</p>
+<p>python app.py</p></li>
+<li><p>Enlace de la interfaz: <a href="http://localhost:7860/" class="uri">http://localhost:7860/</a> y <a href="http://127.0.0.1:7860" class="uri">http://127.0.0.1:7860</a></p></li>
 </ul>
 </section>
 
